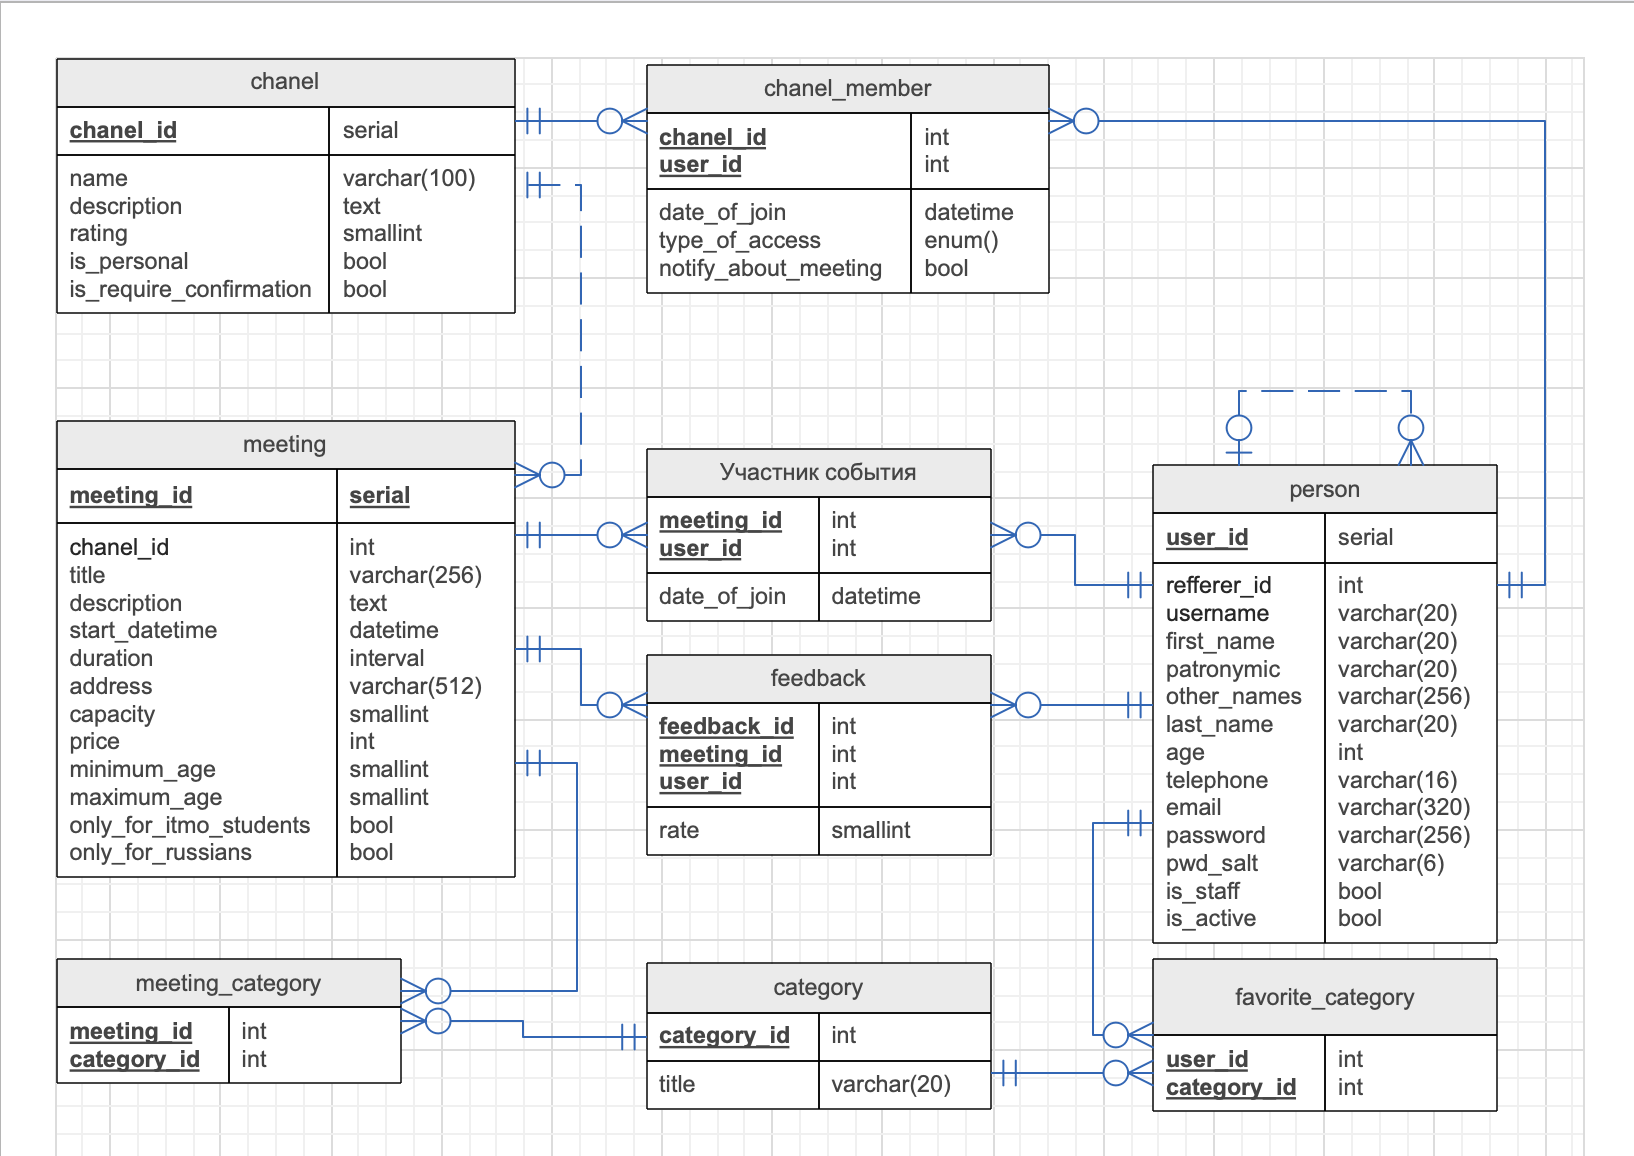
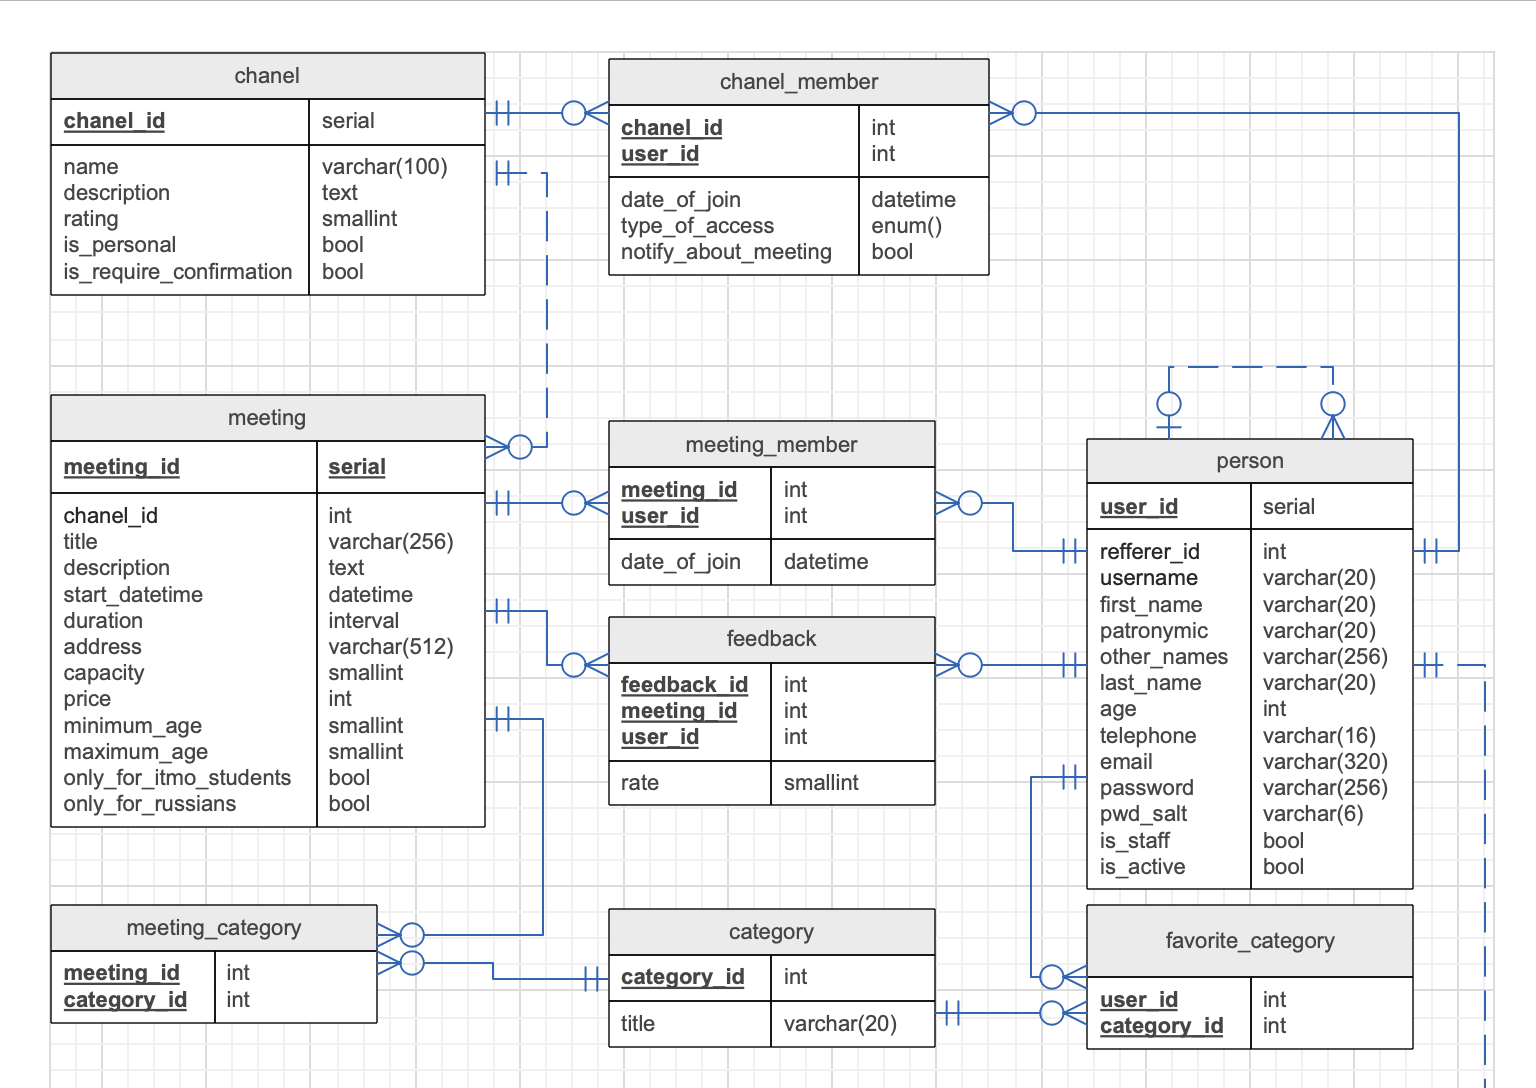
Исправлена DL-диаграмма

diff --git a/posgresql-scripts/README.md b/posgresql-scripts/README.md
@@ -1,3 +1,3 @@
 # Структура базы данных
 ## DL диаграмма
-![DL-diagram](https://github.com/klim405/ITMO-Meetings/docs/img/dl-diagram.png)
+![DL-diagram](/docs/img/dl-diagram.png)
